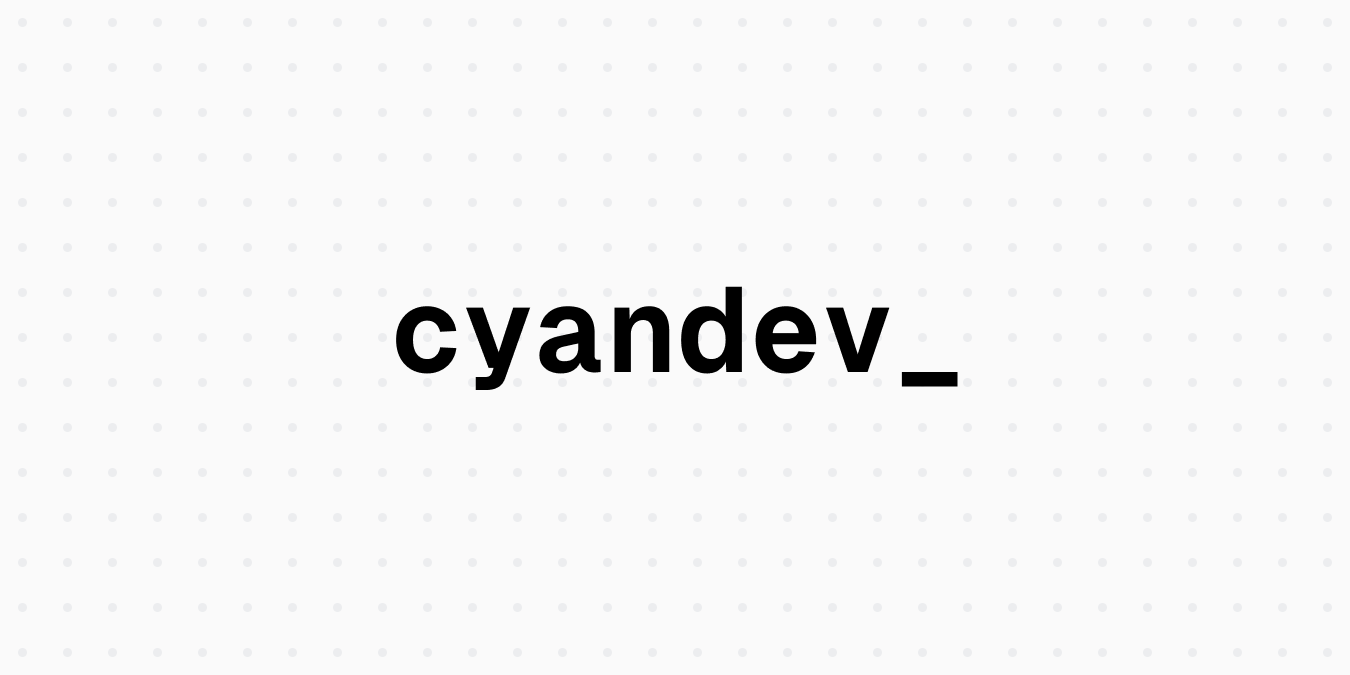
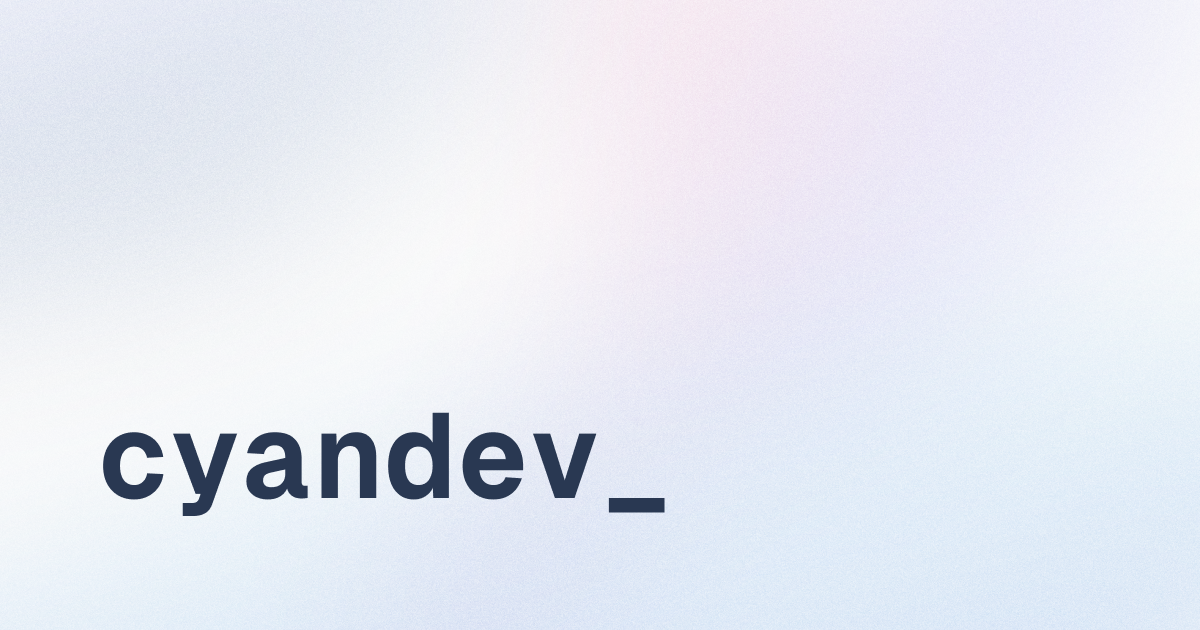
Update OG image

Changed region(s): [[0.0617, 0.4222, 1.0, 1.0], [0.0, 0.0, 0.3083, 0.3921]]

diff --git a/src/metadata/dom.tsx b/src/metadata/dom.tsx
@@ -24,7 +24,7 @@ function findOrInsertMetaElement(name?: string, property?: string) {
 }
 
 export function renderMetadata(metadata: Metadata) {
-  const { title, description, url } = metadata;
+  const { title, description, url, imageUrl } = metadata;
 
   let titleElement = document.head.querySelector("title");
   if (!titleElement) {
@@ -36,25 +36,35 @@ export function renderMetadata(metadata: Metadata) {
   const descriptionElement = findOrInsertMetaElement("description");
   descriptionElement.setAttribute("content", description || "");
 
+  const ogTitleElement = findOrInsertMetaElement(undefined, "og:title");
+  ogTitleElement.setAttribute("content", title || "");
+
   const ogDescriptionElement = findOrInsertMetaElement(
     undefined,
     "og:description",
   );
   ogDescriptionElement.setAttribute("content", description || "");
 
-  const twDescriptionElement = findOrInsertMetaElement("twitter:description");
-  twDescriptionElement.setAttribute("content", description || "");
+  const ogImageElement = findOrInsertMetaElement(undefined, "og:image");
+  ogImageElement.setAttribute("content", imageUrl || "");
 
   const ogUrlElement = findOrInsertMetaElement(undefined, "og:url");
   ogUrlElement.setAttribute("content", url || "");
+
+  const twDescriptionElement = findOrInsertMetaElement("twitter:description");
+  twDescriptionElement.setAttribute("content", description || "");
+
+  const twImageElement = findOrInsertMetaElement("twitter:image");
+  twImageElement.setAttribute("content", imageUrl || "");
 }
 
 export function renderMetadataToString(metadata: Metadata) {
-  const { title, description, url } = metadata;
+  const { title, description, url, imageUrl } = metadata;
   let htmlString = "";
 
   if (title) {
     htmlString += `<title>${title}</title>`;
+    htmlString += `<meta name="og:title" content="${title}">`;
   }
 
   if (description) {
@@ -65,6 +75,11 @@ export function renderMetadataToString(metadata: Metadata) {
 
   if (url) {
     htmlString += `<meta property="og:url" content="${url}">`;
+  }
+
+  if (imageUrl) {
+    htmlString += `<meta property="og:image" content="${imageUrl}">`;
+    htmlString += `<meta name="twitter:image" content="${imageUrl}">`;
   }
 
   return htmlString;

diff --git a/src/App.tsx b/src/App.tsx
@@ -2,14 +2,15 @@ import { Suspense } from "react";
 import { RouterProvider } from "react-router/dom";
 
 import { ThemeClientInitializer } from "./theme";
-import { MetadataUpdater } from "./metadata";
+import { type Metadata, MetadataUpdater } from "./metadata";
 import { IntlProvider } from "./components/IntlProvider";
 import { BASE_URL } from "./config";
 
-export const metadata = {
+export const metadata: Metadata = {
   title: "Cyandev",
   description: "Cyandev's personal blog",
   url: BASE_URL,
+  imageUrl: "https://cy4n.dev/twitter-cards/common.png",
 };
 
 export function App(props: {

diff --git a/index.html b/index.html
@@ -21,11 +21,9 @@
         <link rel="alternate" type="application/rss+xml" href="https://cy4n.dev/rss">
         <link rel="icon" href="/icon.png">
         <link rel="apple-touch-icon" href="/apple-touch-icon.png">
-        <meta property="og:image" content="https://cy4n.dev/twitter-cards/common.png">
         <meta name="twitter:card" content="summary_large_image">
         <meta name="twitter:site" content="@cyandev">
         <meta name="twitter:creator" content="@cyandev">
-        <meta name="twitter:image" content="https://cy4n.dev/twitter-cards/common.png">
         <!--META-SLOT-->
         <!--SERVER-VALUES-SLOT-->
     </head>

diff --git a/src/metadata/types.ts b/src/metadata/types.ts
@@ -2,4 +2,5 @@ export interface Metadata {
   title?: string;
   description?: string;
   url?: string;
+  imageUrl?: string;
 }